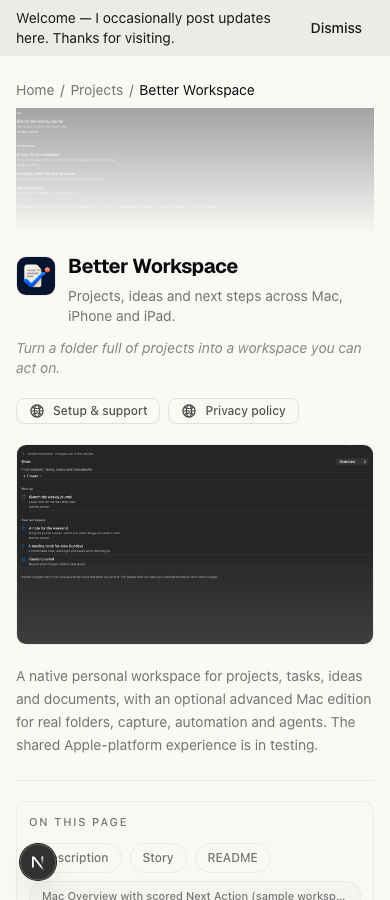
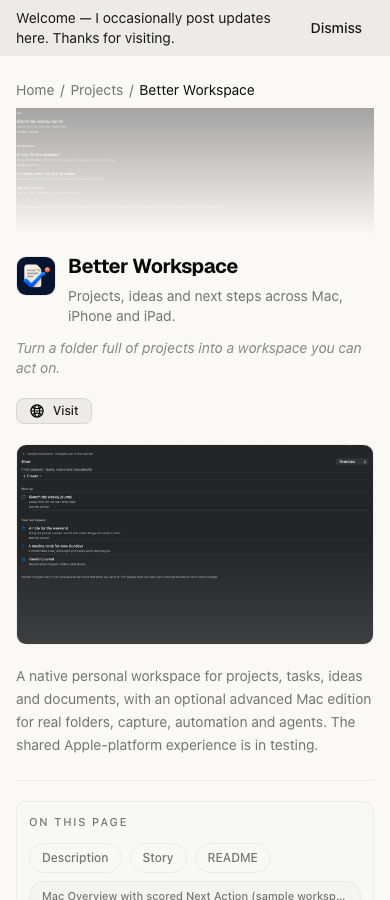
Use visitor-facing product links and keep legal pages secondary

Changed region(s): [[0.0615, 0.4356, 0.3692, 0.4667], [0.4615, 0.4356, 0.7385, 0.4667], [0.0308, 0.9333, 0.1538, 0.9956]]

diff --git a/tests/better-workspace.spec.ts b/tests/better-workspace.spec.ts
@@ -11,6 +11,25 @@ for (const width of [1280, 390]) {
     await expect(hero).toBeVisible();
     await expect.poll(() => hero.evaluate((img: HTMLImageElement) => img.naturalWidth)).toBeGreaterThan(0);
     await expect(page.getByTestId("project-readme")).toBeAttached();
+    const actions = page.getByTestId("project-header-resource-row");
+    await expect(actions.getByRole("button", { name: /Visit$/ })).toBeVisible();
+    await expect(actions.getByRole("button", { name: /privacy|support/i })).toHaveCount(0);
+    const popupPromise = page.waitForEvent("popup");
+    await actions.getByRole("button", { name: /Visit$/ }).click();
+    const product = await popupPromise;
+    await product.setViewportSize({ width, height: 900 });
+    await product.waitForLoadState("domcontentloaded");
+    await expect(product).toHaveURL(/\/better-workspace\/?$/);
+    await expect(product.getByRole("heading", { name: "In private testing", exact: true })).toBeVisible();
+    for (const link of await product.locator("main").getByRole("link").all()) {
+      const href = await link.getAttribute("href");
+      expect(href).toBeTruthy();
+      expect((await product.request.get(href!)).ok()).toBe(true);
+    }
+    await expect(product.getByRole("link", { name: /^(Download|Install|Repo|TestFlight)$/ })).toHaveCount(0);
+    await expect.poll(() => product.evaluate(() => document.documentElement.scrollWidth <= window.innerWidth)).toBe(true);
+    await product.screenshot({ animations: "disabled", path: `docs/images/better-workspace/product-${width}.png` });
+    await product.close();
     for (const label of ["Mac Overview with scored Next Action (sample workspace)", "iPhone idea priority and scoring (sample workspace)", "iPad project details and work plan (sample workspace)", "Native Mac personal workspace preview (private sample)", "iPhone personal workspace preview (private sample)", "iPad personal workspace preview (private sample)"]) {
       const image = page.getByRole("img", { name: label, exact: true }).first();
       await image.scrollIntoViewIfNeeded();
@@ -28,6 +47,12 @@ for (const width of [1280, 390]) {
       return true;
     })).toBe(true);
     await page.screenshot({ animations: "disabled", path: `docs/images/better-workspace/portfolio-${width === 1280 ? "desktop" : "mobile"}.png` });
+    await page.goto("/projects/recallable");
+    const recallableActions = page.getByTestId("project-header-resource-row");
+    await expect(recallableActions.getByRole("button", { name: /Visit$/ })).toBeVisible();
+    await expect(recallableActions.getByRole("button", { name: /privacy|support/i })).toHaveCount(0);
+    await page.goto("/recallable");
+    await expect(page.getByRole("heading", { name: "Preparing for the App Store", exact: true })).toBeVisible();
     for (const [route, heading] of [["privacy", "Better Workspace Privacy Policy"], ["support", "Setup & Support"]]) {
       await page.goto(`/better-workspace/${route}`);
       await expect(page.getByRole("heading", { name: heading, exact: true })).toBeVisible();

diff --git a/app/better-workspace/page.tsx b/app/better-workspace/page.tsx
@@ -1,0 +1,33 @@
+import type { Metadata } from "next";
+import Image from "next/image";
+import Link from "next/link";
+import { PageColumn, PageFrame } from "@/components/layout/page-frame";
+
+export const metadata: Metadata = {
+  title: "Better Workspace — Projects, ideas and next steps",
+  description: "A native personal workspace for Mac, iPhone and iPad. Currently in private testing.",
+  alternates: { canonical: "/better-workspace" },
+};
+
+export default function BetterWorkspacePage() {
+  return (
+    <PageFrame as="main" className="py-10">
+      <PageColumn className="space-y-6 leading-relaxed">
+        <p className="text-sm text-muted-foreground">Mac · iPhone · iPad</p>
+        <h1 className="text-4xl font-semibold">Better Workspace</h1>
+        <p className="text-xl">Projects, ideas and a useful next step.</p>
+        <p>Keep projects, tasks, ideas and documents together in a native personal workspace. Work locally, with private iCloud synchronization when available. The optional advanced Mac edition adds real folders, portable Markdown plans, capture and reviewed automation.</p>
+        <section className="rounded-xl border p-5 space-y-2" aria-label="Release status">
+          <h2 className="text-xl font-semibold">In private testing</h2>
+          <p>Better Workspace is being prepared for release. There is no public App Store listing or Mac download yet.</p>
+        </section>
+        <Image src="/projects/better_workspace_210b2324-2bdf-5751-a101-9c334db91f8c/images/mac-personal-sample.webp" alt="Better Workspace on Mac with private sample projects and tasks" width={1280} height={800} className="h-auto w-full rounded-xl border" />
+        <Link href="/projects/better-workspace" className="inline-block underline">Explore the project and screenshots</Link>
+        <footer className="flex flex-wrap gap-5 border-t pt-5 text-sm text-muted-foreground">
+          <Link href="/better-workspace/support" className="underline">Setup &amp; support</Link>
+          <Link href="/better-workspace/privacy" className="underline">Privacy policy</Link>
+        </footer>
+      </PageColumn>
+    </PageFrame>
+  );
+}

diff --git a/app/recallable/page.tsx b/app/recallable/page.tsx
@@ -1,0 +1,30 @@
+import type { Metadata } from "next";
+import Link from "next/link";
+import { PageColumn, PageFrame } from "@/components/layout/page-frame";
+
+export const metadata: Metadata = {
+  title: "Recallable — A calmer way to remember",
+  description: "A native flashcard app being prepared for the App Store.",
+  alternates: { canonical: "/recallable" },
+};
+
+export default function RecallablePage() {
+  return (
+    <PageFrame as="main" className="py-10">
+      <PageColumn className="space-y-6 leading-relaxed">
+        <h1 className="text-4xl font-semibold">Recallable</h1>
+        <p className="text-xl">A calmer way to remember.</p>
+        <p>A native flashcard app with focused study rounds, rich text and math, widgets and private iCloud sync across your Apple devices.</p>
+        <section className="rounded-xl border p-5 space-y-2" aria-label="Release status">
+          <h2 className="text-xl font-semibold">Preparing for the App Store</h2>
+          <p>Recallable is not available to download yet.</p>
+        </section>
+        <Link href="/projects/recallable" className="inline-block underline">Explore the project and screenshots</Link>
+        <footer className="flex flex-wrap gap-5 border-t pt-5 text-sm text-muted-foreground">
+          <Link href="/recallable/support" className="underline">Support</Link>
+          <Link href="/recallable/privacy" className="underline">Privacy policy</Link>
+        </footer>
+      </PageColumn>
+    </PageFrame>
+  );
+}

diff --git a/playwright.release-verification.config.ts b/playwright.release-verification.config.ts
@@ -1,0 +1,14 @@
+import { defineConfig } from "@playwright/test";
+import base from "./playwright.config";
+
+// Exercise the production export without development compilation/HMR races.
+export default defineConfig({
+  ...base,
+  workers: 1,
+  webServer: {
+    command: "python3 scripts/serve-export.py",
+    port: 3001,
+    reuseExistingServer: false,
+    timeout: 15000,
+  },
+});

diff --git a/scripts/serve-export.py b/scripts/serve-export.py
@@ -1,0 +1,26 @@
+#!/usr/bin/env python3
+"""Preview the Next.js export with Firebase Hosting's clean URL behavior."""
+from functools import partial
+from http.server import SimpleHTTPRequestHandler, ThreadingHTTPServer
+from pathlib import Path
+
+
+class ExportHandler(SimpleHTTPRequestHandler):
+    def translate_path(self, path):
+        translated = super().translate_path(path)
+        clean_route = Path(translated + ".html")
+        return str(clean_route) if clean_route.is_file() else translated
+
+
+if __name__ == "__main__":
+    root = Path(__file__).resolve().parent.parent / "out"
+    if not (root / "index.html").is_file():
+        raise SystemExit("Run npm run build before previewing the export.")
+    server = ThreadingHTTPServer(("127.0.0.1", 3001), partial(ExportHandler, directory=str(root)))
+    print("Portfolio export: http://127.0.0.1:3001", flush=True)
+    try:
+        server.serve_forever()
+    except KeyboardInterrupt:
+        pass
+    finally:
+        server.server_close()

diff --git a/docs/BETTER_WORKSPACE.md b/docs/BETTER_WORKSPACE.md
@@ -2,6 +2,34 @@
 
 Updated October 15, 2026. The project page is live at https://zacharysturman.com/projects/better-workspace, with deployed support and privacy pages at `/better-workspace/support` and `/better-workspace/privacy`.
 
+## Visitor actions — final integration pass
+
+Better Workspace and Recallable were the two entries whose primary resources were
+only Support/Privacy. Each now has a public product overview (`/better-workspace`,
+`/recallable`) and a single **Visit** action. Both pages state that the applications
+are unreleased; no private TestFlight, private repository or unpublished download is
+advertised. Support and privacy remain in the project READMEs and product-page footers.
+The other 40 entries had no administrative primary actions.
+
+Use **Download**, **Install**, **Visit**, **Demo** or **Repo** for primary project
+actions, choosing only destinations visitors can actually use. Keep administrative
+links in documentation or a secondary legal footer. Do not add install/download/repo
+actions before their destinations become publicly available.
+
+Validated: build, typecheck, scoped ESLint, 41 unit tests, and two responsive browser
+checks against the production export. Tests click Visit, verify its destination and
+all product links, preserve legal routes, and capture desktop/390px screenshots.
+The export preview supports the same clean URLs as Firebase Hosting:
+
+```bash
+npm run build
+npx playwright test -c playwright.release-verification.config.ts tests/better-workspace.spec.ts
+python3 scripts/serve-export.py
+```
+
+Expected: two passing checks; local preview at `http://127.0.0.1:3001`.
+Production deployment and live verification are recorded after pushing.
+
 ## Source and publishing
 
 - `.gitignore`: only this authored content folder is included; generated/other content remains ignored.

diff --git a/docs/NEXT_STEPS.md b/docs/NEXT_STEPS.md
@@ -1,3 +1,16 @@
+# Visitor-facing project actions — October 15, 2026
+
+Better Workspace and Recallable now use Visit links to public product overviews.
+Support/privacy remain secondary. Both products are explicitly unreleased. The other
+40 project entries were checked for administrative primary actions; none found.
+Build, typecheck, scoped lint, 41 unit tests and desktop/mobile production-export
+browser checks pass. Screenshots are in `docs/images/better-workspace/`.
+
+Next: verify the production deployment/live Visit flow after this commit is pushed.
+Do not add App Store, download or private repository actions until public destinations
+exist. App submission and advanced Mac download publication remain pending approval.
+See [portfolio verification](BETTER_WORKSPACE.md) for exact local commands.
+
 ## Better Workspace public page refresh — October 15, 2026
 
 The personal workspace is now the hero, with refreshed real Release screenshots from
